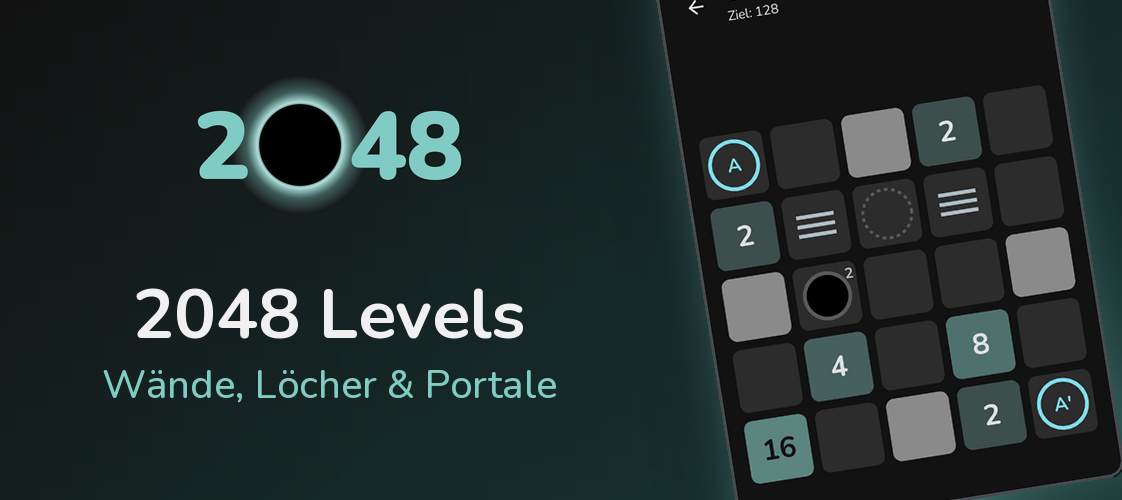
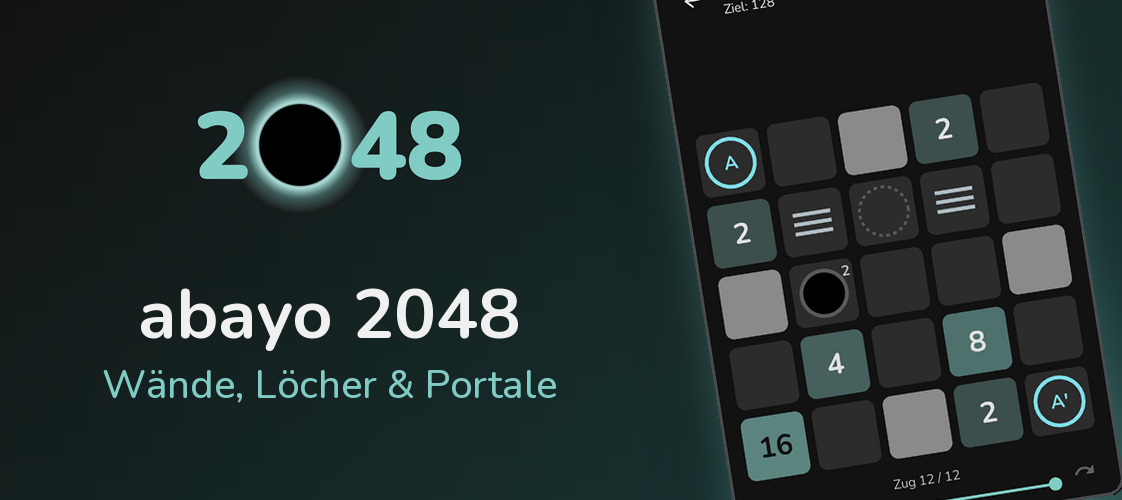
Announce abayo 2048 on Google Play with updated free and premium content
Rename 2048 Levels to abayo 2048, replace the beta signup with the Play Store
badge plus a TestFlight note while iOS is in review, and describe the current
split: chapters 1-2 and one teaser level per further chapter are free; the
full 50-level campaign, 110 Lab levels and The Void are premium.
Regenerated header and social preview images show the new name.

diff --git a/src/i18n/ui.ts b/src/i18n/ui.ts
@@ -22,7 +22,7 @@ export const ui = {
     'app_calm-color-reveal_desc': "A low-stimulation, stress-free coloring adventure for kids and adults. Wake up a world of colors — with no pressure and no game over.",
     'app_yurua_title': 'yurua',
     'app_yurua_desc': 'Resolve decision paralysis without pressure. A neuro-inclusive, calming tool to help you filter options and make everyday choices at your own pace.',
-    'app_2048_title': '2048 Levels',
+    'app_2048_title': 'abayo 2048',
     'app_2048_desc': 'The classic swipe-and-merge puzzle, rebuilt as handcrafted levels with walls, holes and portals. No ads, no timer, no pressure – just calm strategy.',
     'footerCopyright': "All rights reserved.",
     'footerAbout': "About neuro / dev",
@@ -266,66 +266,77 @@ export const ui = {
     'koushi.faq_6_q': "Do I need an account or an internet connection to play?",
     'koushi.faq_6_a': "No. <b>koushi</b> works 100% offline. You don't need to create an account, there are no trackers, and we collect absolutely no personal data. Your progress stays locally on your device, making it a perfectly safe environment for the whole family.",
 
-    // 2048 Levels
-    'plus2048.pageTitle': "2048 Levels | Walls, Holes & Portals Brainteaser",
+    // abayo 2048
+    'plus2048.pageTitle': "abayo 2048 | Walls, Holes & Portals Brainteaser",
     'plus2048.pageDesc': "A calm, handcrafted 2048 puzzle with walls, holes and portals. No ads, no timer, no tracking – just strategy and visual silence.",
-    'plus2048.heroImgAlt': "2048 Levels – the number 2048 with a glowing black hole in place of the zero",
+    'plus2048.heroImgAlt': "abayo 2048 – the number 2048 with a glowing black hole in place of the zero",
 
-    'plus2048.title': "2048 Levels",
+    'plus2048.title': "abayo 2048",
     'plus2048.intro': "<strong>The swipe-and-merge idea you already know – turned into a handcrafted brainteaser.</strong> Slide all numbers at once, merge equal values and reach each level's goal. But this time, walls, holes and portals stand in your way. No timer, no daily streaks, no pop-ups and no ads. Just you, the grid and a minimalist design with a deep black OLED theme.",
 
     'plus2048.h2_1': "Obstacles That Change Everything",
-    'plus2048.p_1': "55 campaign levels in eleven chapters introduce new obstacles one at a time:",
+    'plus2048.p_1': "50 campaign levels in ten chapters introduce new obstacles one at a time:",
     'plus2048.li_1_1': "<strong>Walls:</strong> Halt sliding blocks so you can park your numbers safely. Fading walls vanish after a few moves, jumping walls reappear somewhere else.",
     'plus2048.li_1_2': "<strong>Black Holes:</strong> Swallow whatever slides in – tidy up small tiles or lose your best one.",
     'plus2048.li_1_3': "<strong>Picky Holes:</strong> Capacity holes close after a few blocks, filter holes accept only one exact value, sated holes take just one block per move, and wandering holes drift across the board in a steady rhythm.",
     'plus2048.li_1_4': "<strong>Brake Fields:</strong> Catch a sliding value halfway for precise positioning.",
     'plus2048.li_1_5': "<strong>Portals:</strong> Teleport blocks across the board – and they keep sliding in the same direction.",
 
-    'plus2048.h2_2': "Calm, Fair & Free to Play",
+    'plus2048.h2_2': "Calm & Fair",
     'plus2048.li_2_1': "<strong>Every Level Is Solvable:</strong> A solver checked each level across hundreds of random spawns. Fair puzzles, not luck.",
-    'plus2048.li_2_2': "<strong>Undo Without Frustration:</strong> A free undo fixes any mis-swipe. Merging is about planning, not about punishing a slip.",
-    'plus2048.li_2_3': "<strong>Classic 2048 Included:</strong> After the first chapter, you unlock the familiar endless 4×4 mode – free and without obstacles. Your best score is saved.",
-    'plus2048.li_2_4': "<strong>Respects Your Peace:</strong> Works fully offline, without an account and without tracking. Pause any level and resume it whenever you like.",
+    'plus2048.li_2_2': "<strong>Respects Your Peace:</strong> Works fully offline, without an account and without tracking. Pause any level and resume it whenever you like.",
+    'plus2048.li_2_3': "<strong>Gentle Feedback:</strong> Soft haptics on merges, brakes and portals. Light, dark or automatic appearance.",
+
+    'plus2048.h2_free': "What's Free",
+    'plus2048.p_free': "No trial period, no ads, no energy system. This part is free forever:",
+    'plus2048.li_free_1': "<strong>Two Full Chapters:</strong> The first 10 campaign levels with walls and black holes.",
+    'plus2048.li_free_2': "<strong>A Taste of Every Obstacle:</strong> Once you finish chapter 2, the first level of each of the eight remaining chapters is free to play – so you can try every mechanic before you decide.",
+    'plus2048.li_free_3': "<strong>Classic 2048, Endless:</strong> After the first chapter, you unlock the familiar 4×4 mode without obstacles. Your best score is saved.",
+    'plus2048.li_free_4': "<strong>Undo Without Frustration:</strong> A free undo fixes any mis-swipe. Merging is about planning, not about punishing a slip.",
+    'plus2048.li_free_5': "<strong>Challenges:</strong> Share levels with friends and accept up to 5 challenges for premium levels for free.",
 
     'plus2048.h2_3': "Challenge Your Friends",
     'plus2048.p_3': "Share any level as a link. Your friend plays the exact same level with the exact same random spawns – can they solve it in fewer moves? The comparison stays on your devices. No leaderboards, no accounts.",
 
     'plus2048.h2_4': "Premium – One-Time Purchase, No Subscription",
-    'plus2048.p_4': "The core game stays free. If you want more, a single purchase unlocks:",
-    'plus2048.li_4_1': "<strong>Time Traveler:</strong> Unlimited undo and redo – scrub freely through every move.",
-    'plus2048.li_4_2': "<strong>The Lab:</strong> 105 handcrafted expert levels with wall mazes, wandering holes and portal networks.",
-    'plus2048.li_4_3': "<strong>The Void:</strong> An endless 4×4, 5×5 or 6×6 challenge with obstacles that appear and vanish.",
-    'plus2048.li_4_4': "<strong>Tactical Preview:</strong> See the value of the next tile before it spawns.",
-    'plus2048.li_4_5': "<strong>4 Extra Color Themes:</strong> Each in light and dark.",
+    'plus2048.p_4': "If you want more, a single purchase unlocks the complete package:",
+    'plus2048.li_4_1': "<strong>Full Campaign:</strong> All ten chapters – 40 more levels with capacity holes, filter holes, brake fields, portals, wandering holes, sated holes, fading and jumping walls.",
+    'plus2048.li_4_2': "<strong>The Lab:</strong> 110 handcrafted expert levels in eleven chapters with wall mazes, wandering holes, portal networks and unusual board shapes.",
+    'plus2048.li_4_3': "<strong>The Void:</strong> An endless 4×4, 5×5 or 6×6 challenge with obstacles that appear and vanish – calm, with walls, or as an abyss with holes.",
+    'plus2048.li_4_4': "<strong>Time Traveler:</strong> Unlimited undo and redo – scrub freely through every move.",
+    'plus2048.li_4_5': "<strong>Tactical Preview:</strong> See the value of the next tile before it spawns.",
+    'plus2048.li_4_6': "<strong>4 Extra Color Themes:</strong> Each in light and dark.",
 
     'plus2048.ctaTitle': "Ready for a maze of numbers?",
-    'plus2048.ctaDesc': "2048 Levels is available now. Start with 55 free levels and the classic mode today.",
+    'plus2048.ctaDesc': "abayo 2048 is now available on Google Play. Start with two free chapters and the classic mode today.",
+    'plus2048.iosPending': "On iPhone or iPad? The App Store version is still waiting for Apple's review. Until then, you can play the public beta via TestFlight.",
 
     'plus2048.faq_title': "FAQ",
-    'plus2048.faq_1_q': "What is 2048 Levels?",
-    'plus2048.faq_1_a': "<b>2048 Levels</b> is a calm, level-based brainteaser built on the swipe-and-merge mechanics of 2048. Instead of an endless high-score grind, you solve handcrafted puzzles with walls, holes, brake fields and portals. If you like sokoban, sliding block puzzles or a relaxing logic game after work, it is made for you.",
+    'plus2048.faq_1_q': "What is abayo 2048?",
+    'plus2048.faq_1_a': "<b>abayo 2048</b> is a calm, level-based brainteaser built on the swipe-and-merge mechanics of 2048. Instead of an endless high-score grind, you solve handcrafted puzzles with walls, holes, brake fields and portals. If you like sokoban, sliding block puzzles or a relaxing logic game after work, it is made for you.",
     'plus2048.faq_2_q': "How is it different from classic 2048?",
-    'plus2048.faq_2_a': "Classic 2048 is mostly about luck and endurance. In <b>2048 Levels</b>, every level has a goal and a layout with obstacles that change how numbers slide. It rewards planning instead of grinding. And if you just want the original, the classic endless mode is included for free.",
-    'plus2048.faq_3_q': "Is it really free?",
-    'plus2048.faq_3_a': "Yes. 55 campaign levels, the classic mode and a single undo are free – without ads. An optional one-time purchase unlocks expert levels, the endless Void mode, unlimited undo, a preview of the next tile and extra themes. No subscriptions, no in-game currencies.",
+    'plus2048.faq_2_a': "Classic 2048 is mostly about luck and endurance. In <b>abayo 2048</b>, every level has a goal and a layout with obstacles that change how numbers slide. It rewards planning instead of grinding. And if you just want the original, the classic endless mode is included for free.",
+    'plus2048.faq_3_q': "What is free, and what does Premium unlock?",
+    'plus2048.faq_3_a': "Free and without ads: the first two campaign chapters (10 levels), the first level of each further chapter, the endless classic mode and a single undo. An optional one-time purchase unlocks the full campaign (40 more levels), 110 expert levels in The Lab, the endless Void mode, unlimited undo, a preview of the next tile and extra themes. No subscriptions, no in-game currencies.",
     'plus2048.faq_4_q': "Can every level really be solved, despite random spawns?",
     'plus2048.faq_4_a': "Yes. Every level was played by a solver with hundreds of different random spawn sequences. Only layouts that stay solvable made it into the game.",
     'plus2048.faq_5_q': "Do I need an account or an internet connection?",
-    'plus2048.faq_5_a': "No. <b>2048 Levels</b> works completely offline, without an account and without tracking. Even sharing a challenge needs no account – the level and its random spawns are encoded in the link itself.",
+    'plus2048.faq_5_a': "No. <b>abayo 2048</b> works completely offline, without an account and without tracking. Even sharing a challenge needs no account – the level and its random spawns are encoded in the link itself.",
+    'plus2048.faq_6_q': "Is abayo 2048 available for iPhone?",
+    'plus2048.faq_6_a': "Almost. The Android version is out on Google Play, the iOS version is currently in Apple's review. Until it appears in the App Store, you can play the public beta on iPhone and iPad via TestFlight.",
 
-    // 2048 Levels – Challenge
-    'plus2048.challenge_pageTitle': "Challenge | 2048 Levels",
-    'plus2048.challenge_pageDesc': "You've been challenged in 2048 Levels. Same level, same randomness – can you beat it in fewer moves?",
+    // abayo 2048 – Challenge
+    'plus2048.challenge_pageTitle': "Challenge | abayo 2048",
+    'plus2048.challenge_pageDesc': "You've been challenged in abayo 2048. Same level, same randomness – can you beat it in fewer moves?",
     'plus2048.challenge_title': "You've been challenged!",
-    'plus2048.challenge_fromUnknown': "Someone challenged you in 2048 Levels.",
-    'plus2048.challenge_fromNamed': "{name} challenged you in 2048 Levels.",
+    'plus2048.challenge_fromUnknown': "Someone challenged you in abayo 2048.",
+    'plus2048.challenge_fromNamed': "{name} challenged you in abayo 2048.",
     'plus2048.challenge_intro': "Same level, same randomness – can you do it in fewer moves?",
     'plus2048.challenge_codeTitle': "Already have the app?",
     'plus2048.challenge_codeIntro': "Open <strong>Challenges → Enter code</strong> and paste this code:",
     'plus2048.challenge_copyBtn': "Copy code",
     'plus2048.challenge_copiedBtn': "Copied!",
-    'plus2048.challenge_ctaTitle': "Get 2048 Levels",
+    'plus2048.challenge_ctaTitle': "Get abayo 2048",
     'plus2048.challenge_ctaDesc': "Install the app and accept the challenge.",
     'plus2048.appStoreLink': "https://apps.apple.com/us/app/id6822038905",
 
@@ -356,7 +367,7 @@ export const ui = {
     'app_calm-color-reveal_desc': "Ein reizarmes, stressfreies Ausmal-Abenteuer für Kinder und Erwachsene. Wecke eine Welt voller Farben auf – ganz ohne Druck und Game Over.",
     'app_yurua_title': 'yurua',
     'app_yurua_desc': 'Entscheidungsparalyse auflösen – ganz ohne Druck. Ein reizarmes, neuro-inklusives Tool, das dir hilft, Alltagsentscheidungen im eigenen Tempo zu treffen.',
-    'app_2048_title': '2048 Levels',
+    'app_2048_title': 'abayo 2048',
     'app_2048_desc': 'Das bekannte Wisch-und-Verschmelz-Spiel als handgebautes Denkspiel mit Wänden, Löchern und Portalen. Keine Werbung, kein Timer, kein Druck – nur ruhige Strategie.',
     'footerCopyright': "Alle Rechte vorbehalten.",
     'footerAbout': "Über neuro / dev",
@@ -600,66 +611,77 @@ export const ui = {
     'koushi.faq_6_q': "Brauche ich einen Account oder Internet, um zu spielen?",
     'koushi.faq_6_a': "Nein. <b>koushi</b> funktioniert zu 100 % offline. Du musst keinen Account anlegen, es gibt keine Tracker und wir sammeln absolut keine persönlichen Daten. Dein Spielfortschritt bleibt lokal auf deinem Gerät – ein absolut sicheres Umfeld für die ganze Familie.",
 
-    // 2048 Levels
-    'plus2048.pageTitle': "2048 Levels | Denkspiel mit Wänden, Löchern & Portalen",
+    // abayo 2048
+    'plus2048.pageTitle': "abayo 2048 | Denkspiel mit Wänden, Löchern & Portalen",
     'plus2048.pageDesc': "Ein ruhiges, handgebautes 2048-Denkspiel mit Wänden, Löchern und Portalen. Keine Werbung, kein Timer, kein Tracking – nur Strategie und visuelle Stille.",
-    'plus2048.heroImgAlt': "2048 Levels – die Zahl 2048 mit einem leuchtenden schwarzen Loch anstelle der Null",
+    'plus2048.heroImgAlt': "abayo 2048 – die Zahl 2048 mit einem leuchtenden schwarzen Loch anstelle der Null",
 
-    'plus2048.title': "2048 Levels",
+    'plus2048.title': "abayo 2048",
     'plus2048.intro': "<strong>Die bekannte Wisch-und-Verschmelz-Idee – als handgebautes Denkspiel.</strong> Du schiebst alle Kacheln gleichzeitig, verschmilzt gleiche Zahlen und erreichst das Ziel des Levels. Doch dieses Mal liegen Wände, Löcher und Portale im Weg. Kein Timer, keine täglichen Serien, keine Pop-ups und keine Werbung. Nur du, das Raster und ein minimalistisches Design mit tiefschwarzem Dunkelmodus.",
 
     'plus2048.h2_1': "Hindernisse, die alles verändern",
-    'plus2048.p_1': "55 Kampagnen-Levels in elf Kapiteln führen die Hindernisse nach und nach ein:",
+    'plus2048.p_1': "50 Kampagnen-Levels in zehn Kapiteln führen die Hindernisse nach und nach ein:",
     'plus2048.li_1_1': "<strong>Wände:</strong> Stoppen rutschende Kacheln, so parkst du Zahlen sicher. Vergängliche Wände verschwinden nach einigen Zügen, springende Wände tauchen woanders wieder auf.",
     'plus2048.li_1_2': "<strong>Schwarze Löcher:</strong> Schlucken alles, was hineinrutscht – zum Aufräumen kleiner Kacheln oder zum Verlust deiner besten.",
     'plus2048.li_1_3': "<strong>Wählerische Löcher:</strong> Kapazitäts-Löcher schließen sich nach einigen Kacheln, Filter-Löcher nehmen nur eine bestimmte Zahl auf, satte Löcher schlucken nur eine Kachel pro Zug und wandernde Löcher ziehen in ruhigem Takt über das Brett.",
     'plus2048.li_1_4': "<strong>Brems-Felder:</strong> Halten eine Kachel mitten im Rutschen an – für präzise Positionierung.",
     'plus2048.li_1_5': "<strong>Portale:</strong> Teleportieren Kacheln quer über das Brett, und sie rutschen dabei in dieselbe Richtung weiter.",
 
-    'plus2048.h2_2': "Ruhig, fair & kostenlos spielbar",
+    'plus2048.h2_2': "Ruhig & fair",
     'plus2048.li_2_1': "<strong>Jedes Level ist lösbar:</strong> Ein Solver hat jedes Level mit hunderten zufälligen Kachel-Spawns geprüft. Faire Rätsel statt Glück.",
-    'plus2048.li_2_2': "<strong>Rückgängig ohne Frust:</strong> Ein kostenloser Undo-Schritt korrigiert jeden Fehlwisch. Hier zählt vorausschauende Planung statt Bestrafung.",
-    'plus2048.li_2_3': "<strong>Klassisches 2048 inklusive:</strong> Nach dem ersten Kapitel schaltest du den vertrauten Endlos-Modus auf 4×4 frei – kostenlos und ohne Hindernisse. Dein bester Punktestand wird gespeichert.",
-    'plus2048.li_2_4': "<strong>Respektiert deine Ruhe:</strong> Funktioniert komplett offline, ohne Konto und ohne Tracking. Unterbrich jedes Level und setze es fort, wann immer du willst.",
+    'plus2048.li_2_2': "<strong>Respektiert deine Ruhe:</strong> Funktioniert komplett offline, ohne Konto und ohne Tracking. Unterbrich jedes Level und setze es fort, wann immer du willst.",
+    'plus2048.li_2_3': "<strong>Sanftes Feedback:</strong> Dezente Haptik bei Merges, Bremsen und Portalen. Heller, dunkler oder automatischer Modus.",
+
+    'plus2048.h2_free': "Was kostenlos ist",
+    'plus2048.p_free': "Keine Testphase, keine Werbung, kein Energiesystem. Dieser Teil bleibt für immer kostenlos:",
+    'plus2048.li_free_1': "<strong>Zwei komplette Kapitel:</strong> Die ersten 10 Kampagnen-Levels mit Wänden und schwarzen Löchern.",
+    'plus2048.li_free_2': "<strong>Jedes Hindernis zum Ausprobieren:</strong> Sobald du Kapitel 2 geschafft hast, ist das erste Level jedes der acht weiteren Kapitel kostenlos spielbar – so lernst du jede Mechanik kennen, bevor du dich entscheidest.",
+    'plus2048.li_free_3': "<strong>Klassisches 2048, endlos:</strong> Nach dem ersten Kapitel schaltest du den vertrauten 4×4-Modus ohne Hindernisse frei. Dein bester Punktestand wird gespeichert.",
+    'plus2048.li_free_4': "<strong>Rückgängig ohne Frust:</strong> Ein kostenloser Undo-Schritt korrigiert jeden Fehlwisch. Hier zählt vorausschauende Planung statt Bestrafung.",
+    'plus2048.li_free_5': "<strong>Herausforderungen:</strong> Teile Levels mit Freunden und nimm bis zu 5 Herausforderungen für Premium-Levels kostenlos an.",
 
     'plus2048.h2_3': "Fordere deine Freunde heraus",
     'plus2048.p_3': "Teile jedes Level als Link. Deine Freunde spielen genau dasselbe Level mit genau demselben Zufall – schaffen sie es in weniger Zügen? Der Vergleich bleibt auf euren Geräten. Keine Ranglisten, keine Konten.",
 
     'plus2048.h2_4': "Premium – Einmalkauf, kein Abo",
-    'plus2048.p_4': "Das Kernspiel bleibt kostenlos. Wenn du mehr willst, schaltet ein einziger Kauf frei:",
-    'plus2048.li_4_1': "<strong>Time-Traveler:</strong> Unbegrenzt rückgängig und wiederholen – spule frei durch alle Züge.",
-    'plus2048.li_4_2': "<strong>The Lab:</strong> 105 knifflige Expertenlevel mit Wand-Labyrinthen, wandernden Löchern und Portalnetzen.",
-    'plus2048.li_4_3': "<strong>The Void:</strong> Endlos-Modus auf 4×4, 5×5 oder 6×6 mit Hindernissen, die auftauchen und verschwinden.",
-    'plus2048.li_4_4': "<strong>Taktische Vorschau:</strong> Sieh den Wert der nächsten Kachel, bevor sie erscheint.",
-    'plus2048.li_4_5': "<strong>4 zusätzliche Farbwelten:</strong> Jeweils hell und dunkel.",
+    'plus2048.p_4': "Wenn du mehr willst, schaltet ein einziger Kauf das Komplettpaket frei:",
+    'plus2048.li_4_1': "<strong>Komplette Kampagne:</strong> Alle zehn Kapitel – 40 weitere Levels mit Kapazitäts- und Filter-Löchern, Brems-Feldern, Portalen, wandernden und satten Löchern, vergänglichen und springenden Wänden.",
+    'plus2048.li_4_2': "<strong>The Lab:</strong> 110 knifflige Expertenlevel in elf Kapiteln mit Wand-Labyrinthen, wandernden Löchern, Portalnetzen und ungewöhnlichen Brettformen.",
+    'plus2048.li_4_3': "<strong>The Void:</strong> Endlos-Modus auf 4×4, 5×5 oder 6×6 mit Hindernissen, die auftauchen und verschwinden – still, mit Wänden oder als Abgrund mit Löchern.",
+    'plus2048.li_4_4': "<strong>Time-Traveler:</strong> Unbegrenzt rückgängig und wiederholen – spule frei durch alle Züge.",
+    'plus2048.li_4_5': "<strong>Taktische Vorschau:</strong> Sieh den Wert der nächsten Kachel, bevor sie erscheint.",
+    'plus2048.li_4_6': "<strong>4 zusätzliche Farbwelten:</strong> Jeweils hell und dunkel.",
 
     'plus2048.ctaTitle': "Bereit für ein Labyrinth aus Zahlen?",
-    'plus2048.ctaDesc': "2048 Levels ist ab sofort verfügbar. Starte noch heute mit 55 kostenlosen Levels und dem klassischen Modus.",
+    'plus2048.ctaDesc': "abayo 2048 ist ab sofort bei Google Play verfügbar. Starte noch heute mit zwei kostenlosen Kapiteln und dem klassischen Modus.",
+    'plus2048.iosPending': "Du hast ein iPhone oder iPad? Die App-Store-Version wartet noch auf Apples Prüfung. Bis dahin kannst du die öffentliche Beta über TestFlight spielen.",
 
     'plus2048.faq_title': "FAQ",
-    'plus2048.faq_1_q': "Was ist 2048 Levels?",
-    'plus2048.faq_1_a': "<b>2048 Levels</b> ist ein ruhiges, levelbasiertes Denkspiel auf Basis der Wisch-und-Verschmelz-Mechanik von 2048. Statt endlosem Highscore-Grind löst du handgebaute Rätsel mit Wänden, Löchern, Brems-Feldern und Portalen. Wenn du Sokoban, Schiebepuzzle oder ein entspannendes Logikrätsel nach Feierabend magst, ist es genau das Richtige für dich.",
+    'plus2048.faq_1_q': "Was ist abayo 2048?",
+    'plus2048.faq_1_a': "<b>abayo 2048</b> ist ein ruhiges, levelbasiertes Denkspiel auf Basis der Wisch-und-Verschmelz-Mechanik von 2048. Statt endlosem Highscore-Grind löst du handgebaute Rätsel mit Wänden, Löchern, Brems-Feldern und Portalen. Wenn du Sokoban, Schiebepuzzle oder ein entspannendes Logikrätsel nach Feierabend magst, ist es genau das Richtige für dich.",
     'plus2048.faq_2_q': "Was ist anders als beim klassischen 2048?",
-    'plus2048.faq_2_a': "Beim klassischen 2048 geht es vor allem um Glück und Ausdauer. In <b>2048 Levels</b> hat jedes Level ein Ziel und ein Layout mit Hindernissen, die verändern, wie die Zahlen rutschen. Belohnt wird Planung statt Grinden. Und wer einfach das Original spielen will, bekommt den klassischen Endlos-Modus kostenlos dazu.",
-    'plus2048.faq_3_q': "Ist das Spiel wirklich kostenlos?",
-    'plus2048.faq_3_a': "Ja. 55 Kampagnen-Levels, der klassische Modus und ein Undo-Schritt sind kostenlos – ohne Werbung. Ein optionaler Einmalkauf schaltet Expertenlevel, den Endlos-Modus The Void, unbegrenztes Rückgängigmachen, eine Vorschau auf die nächste Kachel und zusätzliche Farbwelten frei. Keine Abos, keine Spielwährungen.",
+    'plus2048.faq_2_a': "Beim klassischen 2048 geht es vor allem um Glück und Ausdauer. In <b>abayo 2048</b> hat jedes Level ein Ziel und ein Layout mit Hindernissen, die verändern, wie die Zahlen rutschen. Belohnt wird Planung statt Grinden. Und wer einfach das Original spielen will, bekommt den klassischen Endlos-Modus kostenlos dazu.",
+    'plus2048.faq_3_q': "Was ist kostenlos und was schaltet Premium frei?",
+    'plus2048.faq_3_a': "Kostenlos und ohne Werbung: die ersten beiden Kampagnen-Kapitel (10 Levels), das erste Level jedes weiteren Kapitels, der klassische Endlos-Modus und ein Undo-Schritt. Ein optionaler Einmalkauf schaltet die komplette Kampagne (40 weitere Levels), 110 Expertenlevel in The Lab, den Endlos-Modus The Void, unbegrenztes Rückgängigmachen, eine Vorschau auf die nächste Kachel und zusätzliche Farbwelten frei. Keine Abos, keine Spielwährungen.",
     'plus2048.faq_4_q': "Ist wirklich jedes Level lösbar, trotz zufälliger Kacheln?",
     'plus2048.faq_4_a': "Ja. Ein Solver hat jedes Level mit hunderten verschiedenen Zufallsfolgen durchgespielt. Nur Layouts, die dabei lösbar bleiben, haben es ins Spiel geschafft.",
     'plus2048.faq_5_q': "Brauche ich ein Konto oder eine Internetverbindung?",
-    'plus2048.faq_5_a': "Nein. <b>2048 Levels</b> funktioniert komplett offline, ohne Konto und ohne Tracking. Selbst zum Teilen einer Herausforderung brauchst du kein Konto – Level und Zufall stecken direkt im Link.",
+    'plus2048.faq_5_a': "Nein. <b>abayo 2048</b> funktioniert komplett offline, ohne Konto und ohne Tracking. Selbst zum Teilen einer Herausforderung brauchst du kein Konto – Level und Zufall stecken direkt im Link.",
+    'plus2048.faq_6_q': "Gibt es abayo 2048 auch für das iPhone?",
+    'plus2048.faq_6_a': "Fast. Die Android-Version ist bei Google Play erschienen, die iOS-Version wird gerade von Apple geprüft. Bis sie im App Store erscheint, kannst du die öffentliche Beta auf iPhone und iPad über TestFlight spielen.",
 
-    // 2048 Levels – Herausforderung
-    'plus2048.challenge_pageTitle': "Herausforderung | 2048 Levels",
-    'plus2048.challenge_pageDesc': "Du wurdest in 2048 Levels herausgefordert. Gleiches Level, gleicher Zufall – schaffst du es in weniger Zügen?",
+    // abayo 2048 – Herausforderung
+    'plus2048.challenge_pageTitle': "Herausforderung | abayo 2048",
+    'plus2048.challenge_pageDesc': "Du wurdest in abayo 2048 herausgefordert. Gleiches Level, gleicher Zufall – schaffst du es in weniger Zügen?",
     'plus2048.challenge_title': "Du wurdest herausgefordert!",
-    'plus2048.challenge_fromUnknown': "Jemand hat dich in 2048 Levels herausgefordert.",
-    'plus2048.challenge_fromNamed': "{name} hat dich in 2048 Levels herausgefordert.",
+    'plus2048.challenge_fromUnknown': "Jemand hat dich in abayo 2048 herausgefordert.",
+    'plus2048.challenge_fromNamed': "{name} hat dich in abayo 2048 herausgefordert.",
     'plus2048.challenge_intro': "Gleiches Level, gleicher Zufall – schaffst du es in weniger Zügen?",
     'plus2048.challenge_codeTitle': "App schon installiert?",
     'plus2048.challenge_codeIntro': "Öffne <strong>Herausforderungen → Code eingeben</strong> und füge diesen Code ein:",
     'plus2048.challenge_copyBtn': "Code kopieren",
     'plus2048.challenge_copiedBtn': "Kopiert!",
-    'plus2048.challenge_ctaTitle': "Hol dir 2048 Levels",
+    'plus2048.challenge_ctaTitle': "Hol dir abayo 2048",
     'plus2048.challenge_ctaDesc': "Installiere die App und nimm die Herausforderung an.",
     'plus2048.appStoreLink': "https://apps.apple.com/de/app/id6822038905",
 
